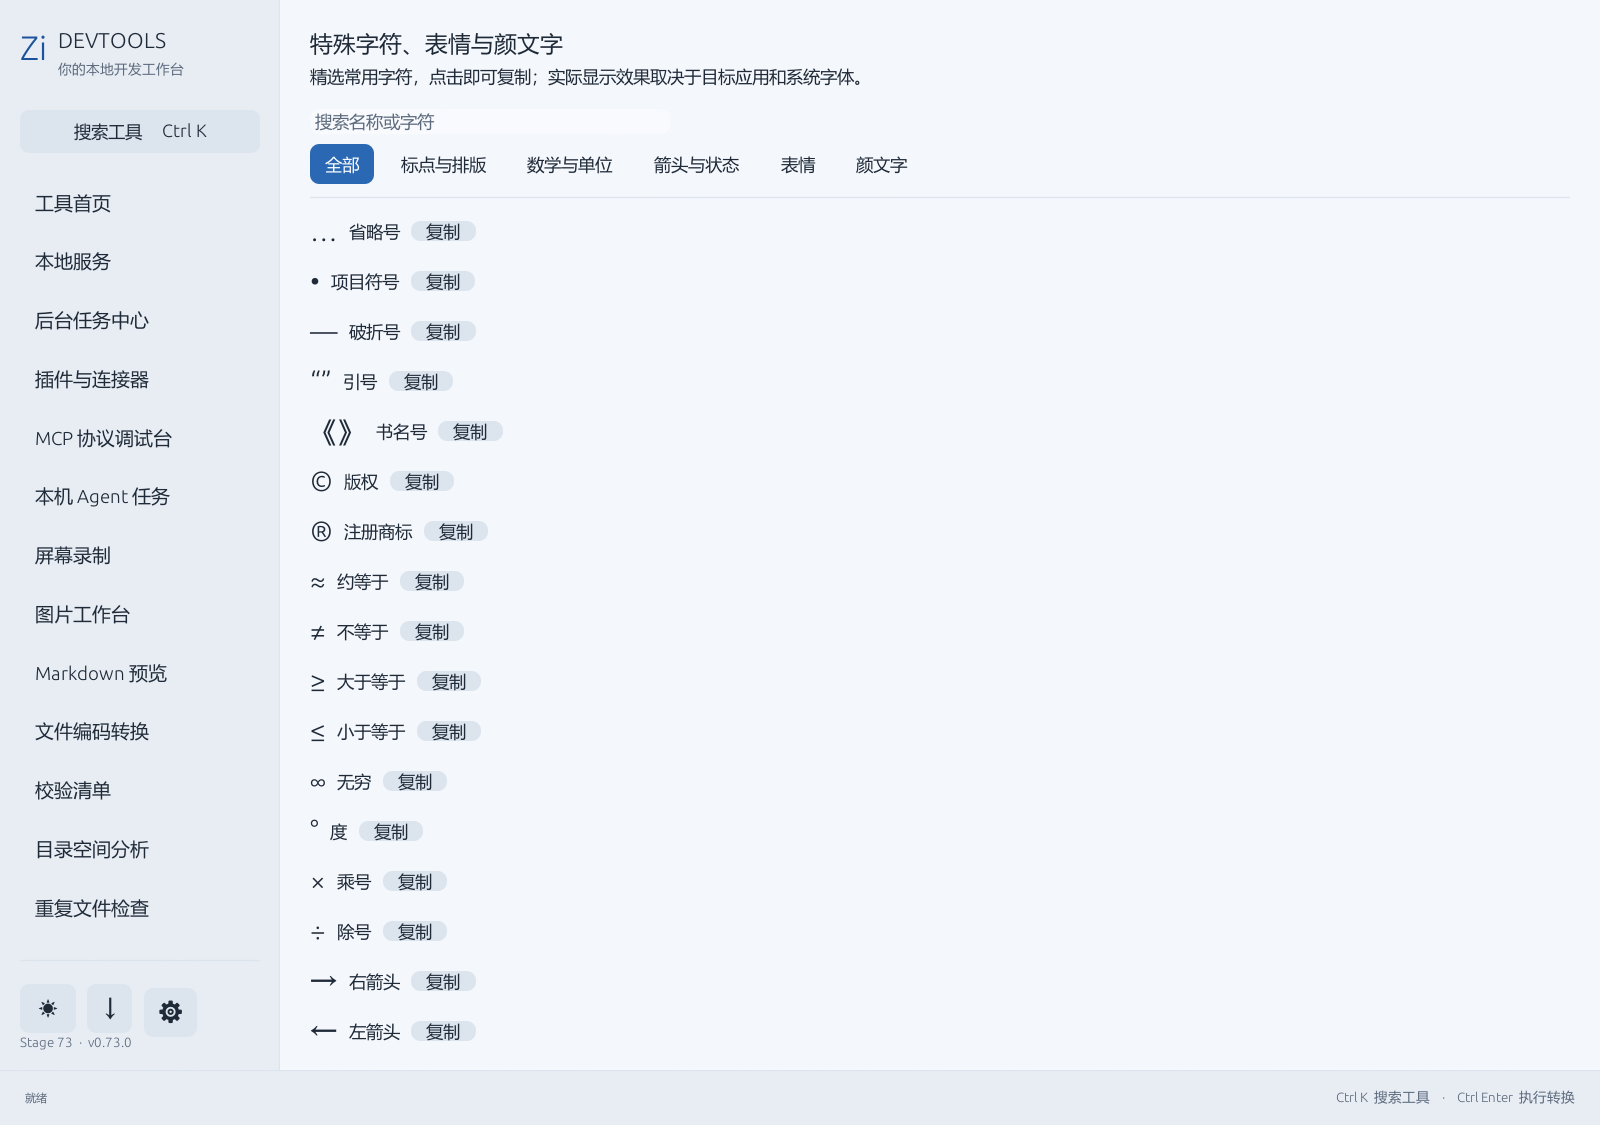
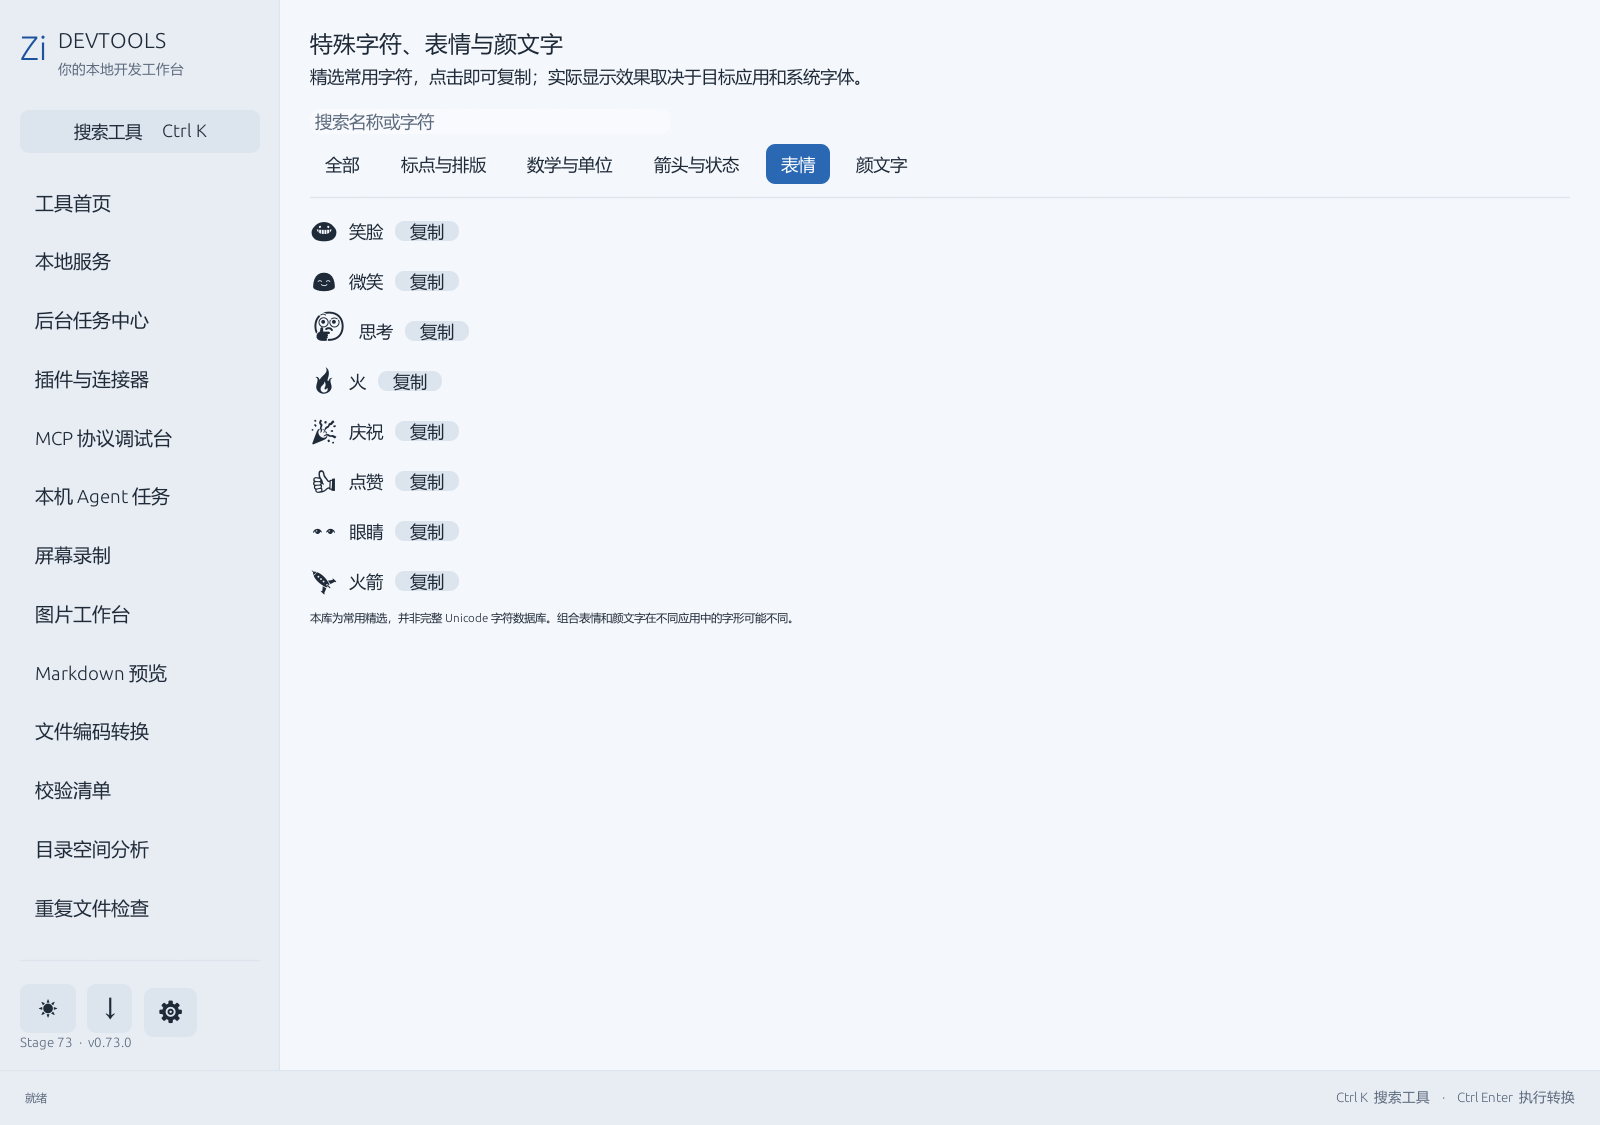
Improve Emoji fallback and character previews

diff --git a/src/app.rs b/src/app.rs
@@ -971,7 +971,11 @@ impl DevToolsApp {
                 self.duplicate_finder.preview_fixture();
             }
             159 | 160 => self.page = Page::AsciiCodes,
-            161 | 162 => self.page = Page::Symbols,
+            161 | 162 => {
+                self.page = Page::Symbols;
+                self.symbols
+                    .preview_fixture(if scene == 161 { 4 } else { 5 });
+            }
             163 | 164 => {
                 self.page = Page::AsciiArt;
                 self.ascii_art.preview_fixture();
@@ -4527,6 +4531,19 @@ fn configure_ui(ctx: &egui::Context, theme: Theme) {
                 .entry(family)
                 .or_default()
                 .push("windows-cjk".to_owned());
+        }
+    }
+    if let Ok(bytes) = fs::read(r"C:\Windows\Fonts\seguiemj.ttf") {
+        fonts.font_data.insert(
+            "windows-emoji".to_owned(),
+            Arc::new(egui::FontData::from_owned(bytes)),
+        );
+        for family in [egui::FontFamily::Proportional, egui::FontFamily::Monospace] {
+            fonts
+                .families
+                .entry(family)
+                .or_default()
+                .push("windows-emoji".to_owned());
         }
     }
     ctx.set_fonts(fonts);

diff --git a/src/character_tools.rs b/src/character_tools.rs
@@ -300,6 +300,11 @@ pub struct SymbolState {
 }
 
 impl SymbolState {
+    #[cfg(feature = "ui-preview")]
+    pub fn preview_fixture(&mut self, category: usize) {
+        self.category = category;
+    }
+
     pub fn ui(&mut self, ui: &mut egui::Ui) {
         ui.heading("特殊字符、表情与颜文字");
         ui.label("精选常用字符，点击即可复制；实际显示效果取决于目标应用和系统字体。");

diff --git a/docs/character-tools.md b/docs/character-tools.md
@@ -6,4 +6,6 @@
 
 **特殊字符与表情**提供标点、数学符号、箭头、常用 Emoji 和颜文字精选条目，可按类别或名称查找，点击“复制”后粘贴到其他应用。它不覆盖完整 Unicode，具体显示取决于目标应用和系统字体。
 
+Windows 上若存在 Segoe UI Emoji，应用会将它作为回退字体，补足部分默认字体缺失的表情图形；预览仍为单色字形，复制的是原始 Unicode 字符。
+
 **ASCII Art 字符画**有文字横幅与图片两种模式。横幅支持最多 40 个英文字母、数字和部分标点，使用内置 5×7 点阵；不支持的字符以 `?` 替代并显示数量。图片模式只读取用户明确选择的 PNG/JPEG/WebP，源文件最多 10 MiB、20 百万像素；输出宽 8–120 字符，高度最多 120 行，透明像素按白底处理。预览可复制，另存 TXT 不覆盖已有文件。处理不上传图片，字符画仅是视觉近似。
